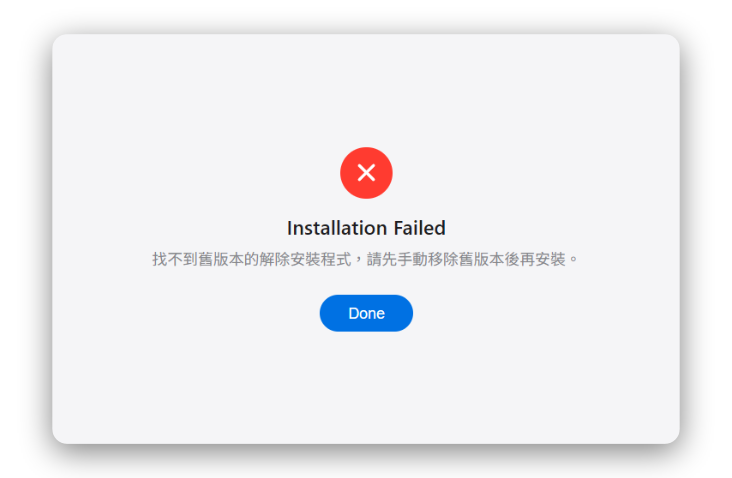
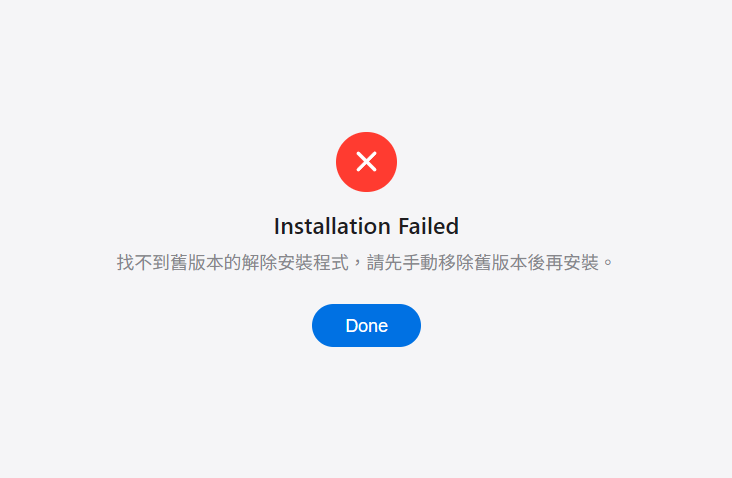
fix(ui): 成功畫面不再把標題原封不動再印一次
昨天把後端的 message 接到成功彈窗上時，我判斷「傳統模式的 message 是空的，
畫面不會變」——那個判斷是錯的。傳統路徑回的正是「安裝成功」，與彈窗標題
一字不差，因此畫面上出現兩行一模一樣的字。單元測試看不出這種事，是虛擬機
實測的截圖才顯露出來的（CLAUDE.md 的「UI 變更後要看過畫面再回報完成」）。

前端新增 messageBeyondTitle()：訊息與標題相同時不顯示。後端不改——那句話在
靜默安裝的紀錄檔裡是有用的（`[成功] 安裝成功`），而 MSIX 回的「要去哪裡
解除安裝」那一段仍會照常顯示。

README 的兩張「安裝完成」截圖已經帶著這個問題進版，一併重拍。

diff --git a/ui/index.html b/ui/index.html
@@ -608,6 +608,19 @@
             });
         })();
 
+        // 後端的訊息與標題重複時就不要再顯示一次。
+        //
+        // 傳統引擎成功時回的 message 正是「安裝成功」，與彈窗標題一字不差；
+        // MSIX 引擎回的是「要去哪裡解除安裝」那一段，兩者都有用，但只有後者
+        // 需要顯示在標題底下。真實抓到（2026-09-07 虛擬機實測的截圖）：接上
+        // result.message 之後，傳統模式的成功畫面出現兩行「安裝成功」。
+        //
+        // 不改後端：那句話在靜默安裝的紀錄檔裡是有用的（`[成功] 安裝成功`）。
+        function messageBeyondTitle(message, title) {
+            const text = (message || '').trim();
+            return text === (title || '').trim() ? '' : text;
+        }
+
         function showModal(title, message, isError = false, showLaunchOption = false) {
             const modal = document.getElementById('custom-modal');
             const icon = document.getElementById('modal-icon');
@@ -1170,7 +1183,8 @@
                 // 「立即執行程式」只在傳統模式提供：launch_app() 把 main_exe
                 // 接在傳統的安裝目錄底下，MSIX 沒有那個目錄，勾了按下去不會
                 // 有任何事、也不會有任何訊息。
-                showModal(t('install_success_title'), result.message || '',
+                showModal(t('install_success_title'),
+                          messageBeyondTitle(result.message, t('install_success_title')),
                           false, installEngine !== 'msix');
                 renderInstallWarnings(result.warnings);
                 pathPreview.innerText = t('install_complete_path');

diff --git a/tests/test_msix_success_guidance.py b/tests/test_msix_success_guidance.py
@@ -141,6 +141,27 @@ class TheSuccessScreenShowsIt(unittest.TestCase):
         self.assertIn("result.message", argument,
                       "訊息參數沒有讀後端回傳的 message，那段說明不會被顯示")
 
+    def test_it_does_not_repeat_the_title_as_the_message(self):
+        """傳統引擎的後端訊息就是「安裝成功」，與彈窗標題一字不差。
+
+        真實抓到（2026-09-07，虛擬機實測的截圖）：把 `result.message` 接上去
+        之後，傳統模式的成功畫面出現兩行「安裝成功」——標題一次、訊息一次。
+        修正這一層的當下我判斷「傳統模式的 message 是空的，畫面不會變」，那個
+        判斷是錯的，而單元測試看不出來，只有把畫面叫出來看才會發現。
+
+        後端不改：那句話在靜默安裝的紀錄檔裡是有用的（`[成功] 安裝成功`）。
+        由前端決定要不要顯示。
+        """
+        source = _index()
+        # 用計數而不是 assertIn：失敗訊息會把整份兩千多行的 HTML 印出來，
+        # 真正的訊息會被推到畫面外。
+        self.assertGreater(source.count("messageBeyondTitle"), 0,
+                           "ui/index.html 沒有那個過濾用的輔助函式")
+        call = re.search(
+            r"showModal\(\s*t\('install_success_title'\)\s*,\s*([^,]+),", source)
+        self.assertIsNotNone(call)
+        self.assertIn("messageBeyondTitle", call.group(1))
+
     def test_the_launch_option_is_hidden_under_msix(self):
         """MSIX 沒有傳統的安裝目錄，launch_app() 接不到那支執行檔。留著一個
         按了不會有任何事、也不會有任何訊息的勾選框，比不給更糟。"""
